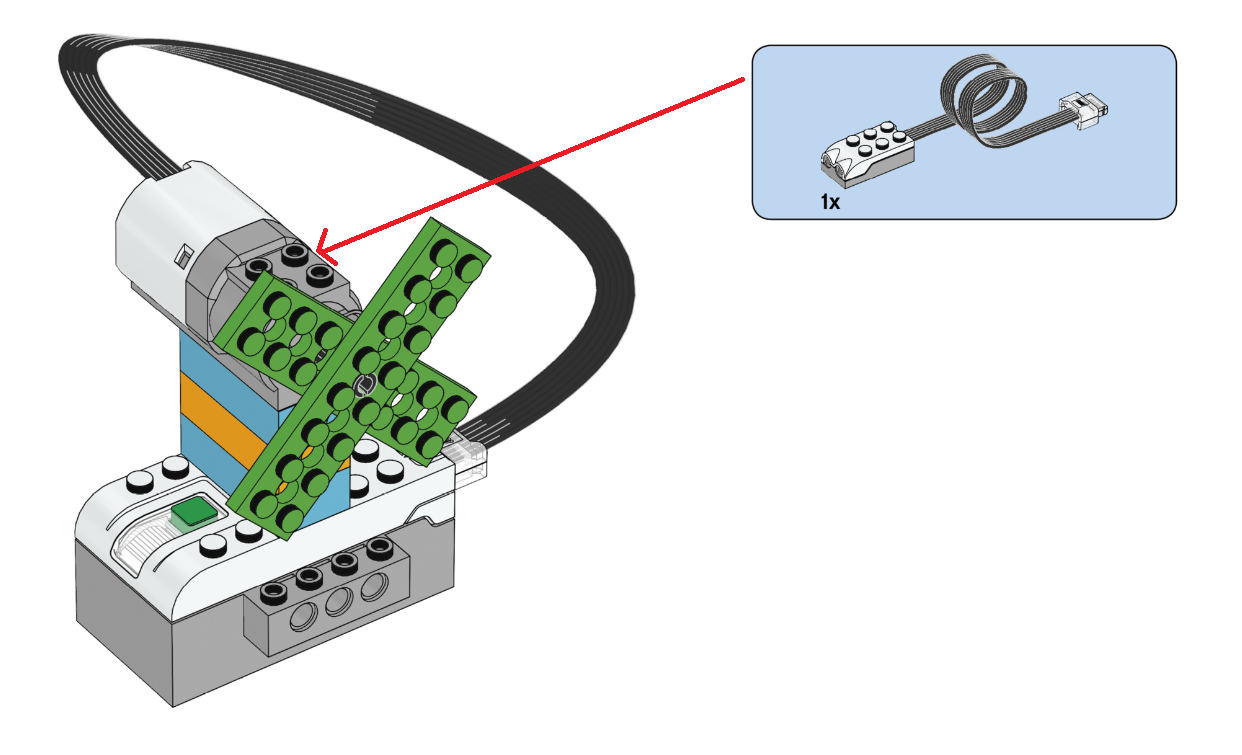
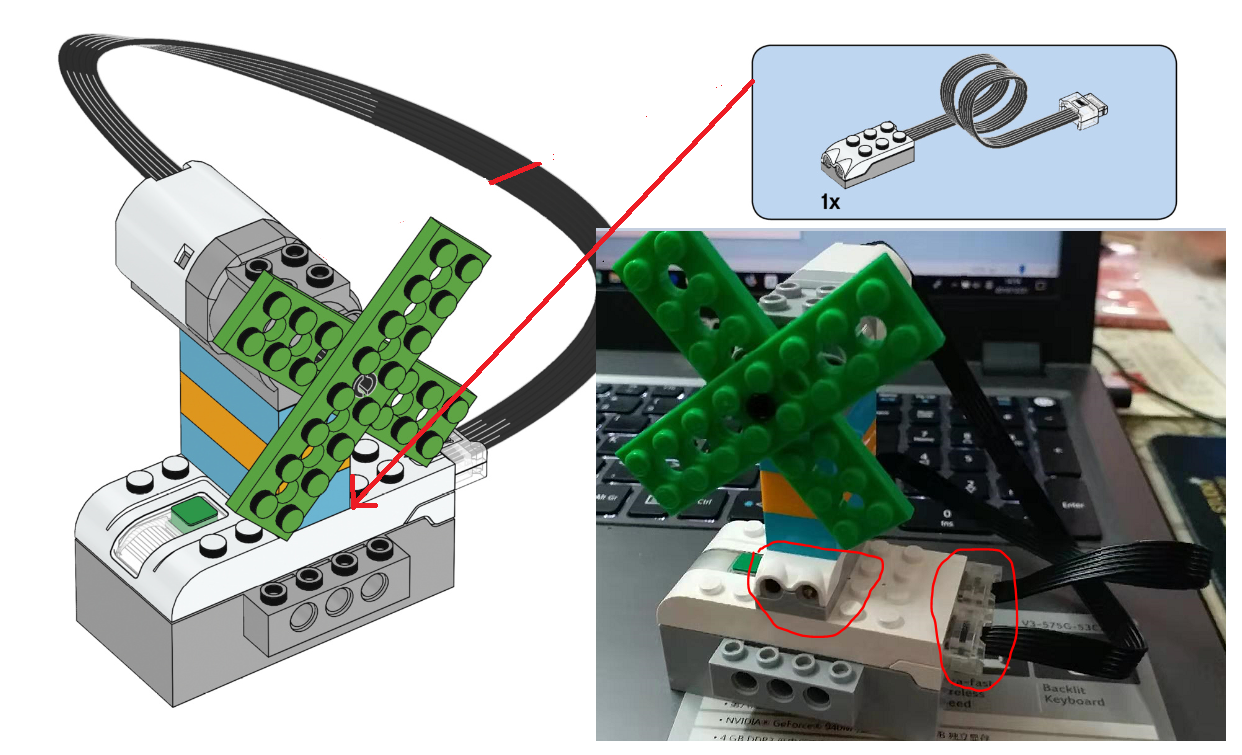
update

diff --git a/Scratch/unit3.1.md b/Scratch/unit3.1.md
@@ -65,7 +65,7 @@
 
 <br><br>
 
-### 11. 添加红外线智能设备
+### 11. 添加红外线智能设备并插好数据线
 
 ![Download](/Scratch/resource/unit3_12.png)
 
